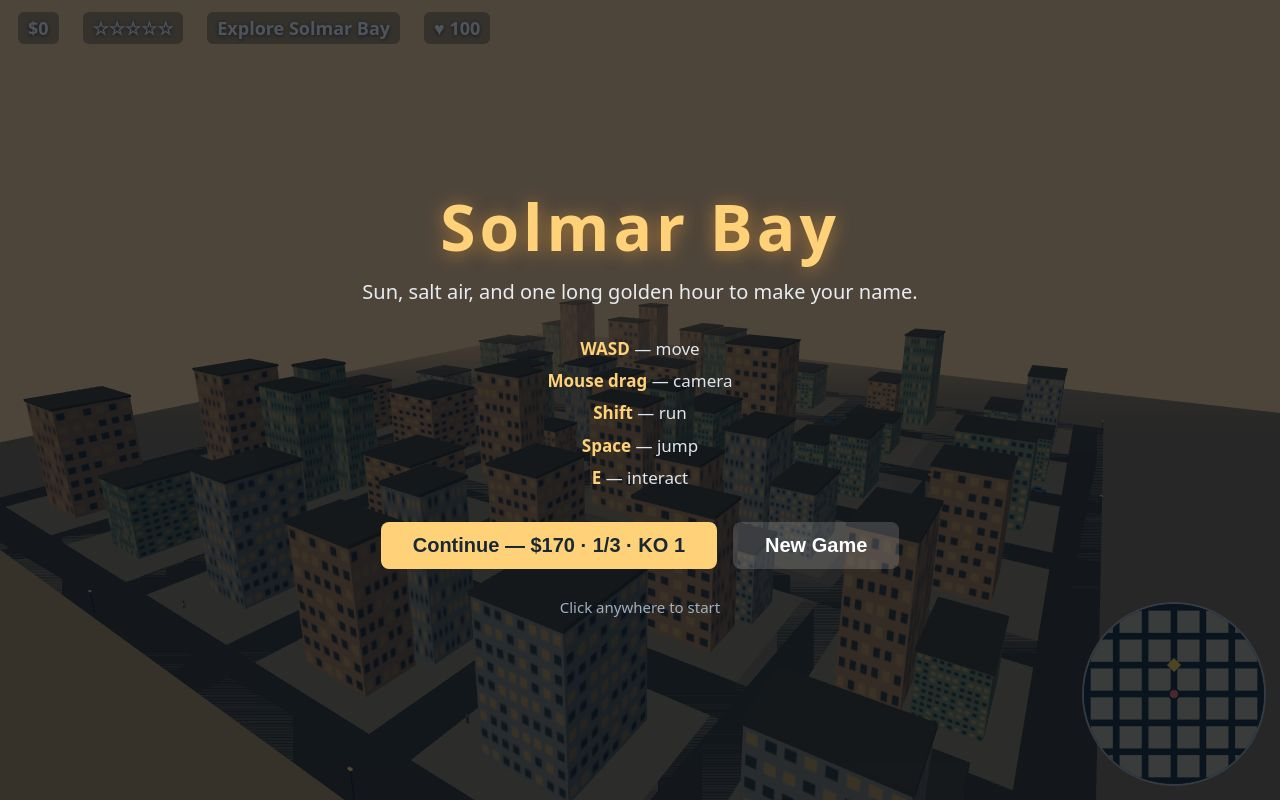
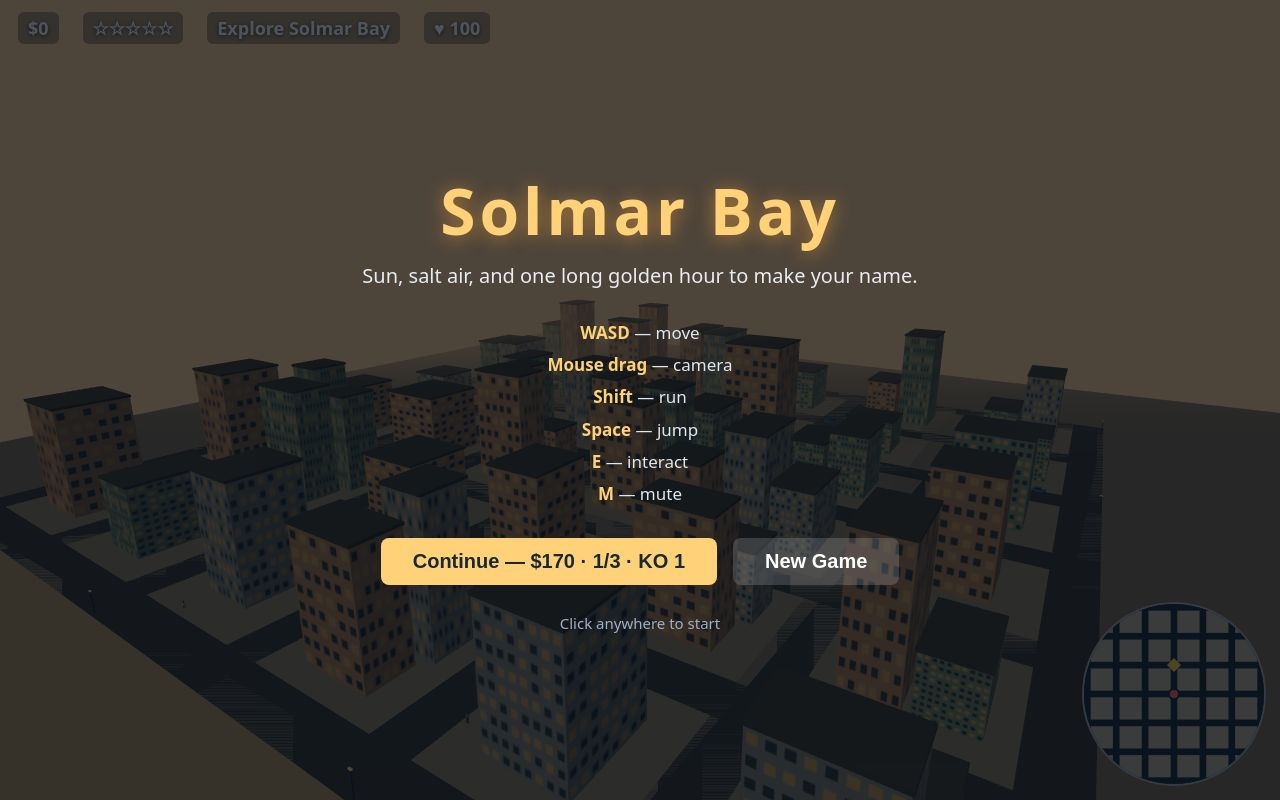
Slice 9: sound

Changed region(s): [[0.2812, 0.4062, 0.7188, 0.7812], [0.2812, 0.2188, 0.7188, 0.375]]

diff --git a/game/src/audio.js b/game/src/audio.js
@@ -1,0 +1,265 @@
+// Solmar Bay — procedural sound effects (slice 9).
+//
+//   const audio = createAudio();
+//   Returns { init, resume, play, setMuted, isMuted, isReady,
+//             getPlayCount, getPlayCounts, sounds }.
+//
+//   Wiring (done by the wiring session, NOT here):
+//     - init() / resume() — call once from a user gesture: the title
+//       screen click / Enter that starts the game (see main.js
+//       startFromTitle). The AudioContext is created ONLY here, never
+//       at module load, so the browser autoplay policy is satisfied
+//       and nothing sounds before the player starts. Calling init()
+//       twice is safe: the second call just resumes the same context.
+//     - play('punch') — combat tryPunch, on a punch that lands.
+//     - play('knockout') — combat onKnockout callback.
+//     - play('missionComplete') — missions onComplete callback.
+//     - play('failed') — death onDeath callback when kind is 'failed'
+//       (DELIVERY FAILED screen).
+//     - play('dead') — death onDeath callback when kind is 'dead'
+//       (OUT COLD screen).
+//     - setMuted(true/false) — the M key handler in main.js; this
+//       module never listens for keys itself.
+//     - getPlayCount(name) — how many times play(name) was requested;
+//       used by Playwright checks to verify each event really fires
+//       its sound. The count increments on every play() request for
+//       a known name, even while muted or with no audio device, so
+//       it proves the wiring fired — it is not a loudness meter.
+//
+//   All five sounds are synthesized live with WebAudio oscillators
+//   and filtered noise — zero audio files, zero network, no
+//   background music, no engine hum, no siren loop. Every sound is
+//   short (< ~1.1 s) and built from a different waveform / pitch
+//   envelope / duration so each is identifiable by ear:
+//     punch           square 160->70 Hz + low noise burst, 0.12 s
+//     knockout        double low thud, square+sine 220->40 Hz, 0.45 s
+//     missionComplete rising major triad, sine, 523->659->784 Hz, 0.6 s
+//     failed          two descending saw notes, 330->110 Hz, 0.9 s
+//     dead            long low sine drone, 110->55 Hz + thud, 1.1 s
+//
+//   Robustness: every public method is safe to call before init(),
+//   when the AudioContext is unavailable (headless, disabled audio),
+//   or when resume() is blocked by the autoplay policy — it degrades
+//   silently, never throws, and never touches the game loop. A
+//   missing or suspended context only means silence, never an error.
+
+export const AUDIO_SOUNDS = ['punch', 'knockout', 'missionComplete', 'failed', 'dead'];
+
+const MASTER_VOLUME = 0.5;
+
+export function createAudio() {
+  let ctx = null;        // AudioContext, created only by init()/resume()
+  let master = null;     // master GainNode (mute lives here)
+  let noiseBuf = null;   // cached 1 s white-noise buffer, built with ctx
+  let muted = false;
+  const counts = {};     // name -> play() requests, for test verification
+
+  function audioCtor() {
+    try {
+      const g = typeof globalThis !== 'undefined' ? globalThis : null;
+      if (!g) return null;
+      return g.AudioContext || g.webkitAudioContext || null;
+    } catch (err) {
+      return null;
+    }
+  }
+
+  // Create the context (user gesture only — the caller guarantees
+  // this runs from a click / Enter) and the master gain. Returns
+  // true when audio is usable, false when it is not (headless,
+  // disabled, or the browser refused). Never throws.
+  function init() {
+    if (ctx) {
+      resume();
+      return true;
+    }
+    try {
+      const Ctor = audioCtor();
+      if (!Ctor) return false;
+      ctx = new Ctor();
+      master = ctx.createGain();
+      master.gain.value = muted ? 0 : MASTER_VOLUME;
+      master.connect(ctx.destination);
+      const len = Math.max(1, Math.floor(ctx.sampleRate));
+      noiseBuf = ctx.createBuffer(1, len, ctx.sampleRate);
+      const data = noiseBuf.getChannelData(0);
+      for (let i = 0; i < data.length; i++) data[i] = Math.random() * 2 - 1;
+      resume();
+      return true;
+    } catch (err) {
+      ctx = null;
+      master = null;
+      noiseBuf = null;
+      return false;
+    }
+  }
+
+  // Resume a suspended context (autoplay policy). Safe before init()
+  // (creates the context, same as init) and safe when resume is
+  // refused — a rejected promise is swallowed, never thrown.
+  // Returns true when the context exists afterwards, false otherwise.
+  function resume() {
+    if (!ctx) return init();
+    try {
+      if (ctx.state === 'suspended' && typeof ctx.resume === 'function') {
+        const p = ctx.resume();
+        if (p && typeof p.catch === 'function') p.catch(() => {});
+      }
+      return true;
+    } catch (err) {
+      return false;
+    }
+  }
+
+  // One oscillator voice: type, pitch glide, gain envelope (quick
+  // attack, exponential decay to silence). t0 is ctx.currentTime.
+  function tone(t0, opts) {
+    const osc = ctx.createOscillator();
+    const gain = ctx.createGain();
+    osc.type = opts.type || 'sine';
+    osc.frequency.setValueAtTime(opts.freq, t0);
+    if (opts.freqEnd && opts.freqEnd !== opts.freq) {
+      osc.frequency.exponentialRampToValueAtTime(Math.max(1, opts.freqEnd), t0 + opts.dur);
+    }
+    const vol = typeof opts.vol === 'number' ? opts.vol : 0.5;
+    gain.gain.setValueAtTime(0.0001, t0);
+    gain.gain.exponentialRampToValueAtTime(vol, t0 + (opts.attack || 0.008));
+    gain.gain.exponentialRampToValueAtTime(0.0001, t0 + opts.dur);
+    osc.connect(gain);
+    gain.connect(master);
+    osc.start(t0);
+    osc.stop(t0 + opts.dur + 0.05);
+  }
+
+  // One filtered-noise burst: white noise through a lowpass whose
+  // cutoff glides down, with the same quick-attack/decay envelope.
+  function noise(t0, opts) {
+    const src = ctx.createBufferSource();
+    src.buffer = noiseBuf;
+    src.loop = true;
+    const filter = ctx.createBiquadFilter();
+    filter.type = 'lowpass';
+    filter.frequency.setValueAtTime(opts.filterFreq || 800, t0);
+    if (opts.filterEnd) {
+      filter.frequency.exponentialRampToValueAtTime(Math.max(20, opts.filterEnd), t0 + opts.dur);
+    }
+    const gain = ctx.createGain();
+    const vol = typeof opts.vol === 'number' ? opts.vol : 0.4;
+    gain.gain.setValueAtTime(0.0001, t0);
+    gain.gain.exponentialRampToValueAtTime(vol, t0 + (opts.attack || 0.005));
+    gain.gain.exponentialRampToValueAtTime(0.0001, t0 + opts.dur);
+    src.connect(filter);
+    filter.connect(gain);
+    gain.connect(master);
+    src.start(t0);
+    src.stop(t0 + opts.dur + 0.05);
+  }
+
+  // The five sounds. Each takes t0 = ctx.currentTime and schedules
+  // only short, one-shot voices — nothing loops, nothing sustains.
+  const SYNTH = {
+    // Short low thump: square wave dropping 160->70 Hz under a
+    // lowpass noise burst — a fist landing, 0.12 s.
+    punch(t0) {
+      tone(t0, { type: 'square', freq: 160, freqEnd: 70, dur: 0.1, vol: 0.45 });
+      noise(t0, { filterFreq: 900, filterEnd: 200, dur: 0.12, vol: 0.4 });
+    },
+    // Two heavy thuds a beat apart: square 220->50 Hz plus a sine
+    // 90->40 Hz boom underneath — a body hitting the ground, 0.45 s.
+    knockout(t0) {
+      tone(t0, { type: 'square', freq: 220, freqEnd: 50, dur: 0.18, vol: 0.5 });
+      tone(t0, { type: 'sine', freq: 90, freqEnd: 40, dur: 0.25, vol: 0.6 });
+      tone(t0 + 0.14, { type: 'square', freq: 140, freqEnd: 45, dur: 0.2, vol: 0.45 });
+      tone(t0 + 0.14, { type: 'sine', freq: 70, freqEnd: 38, dur: 0.28, vol: 0.55 });
+    },
+    // Rising major triad, clean sine: C5 523 -> E5 659 -> G5 784 Hz,
+    // three 0.18 s notes staggered 0.09 s — a delivery done, 0.6 s.
+    missionComplete(t0) {
+      const notes = [523.25, 659.25, 783.99];
+      notes.forEach((freq, i) => {
+        tone(t0 + i * 0.09, { type: 'sine', freq, dur: 0.22, vol: 0.45 });
+        tone(t0 + i * 0.09, { type: 'triangle', freq: freq * 2, dur: 0.15, vol: 0.12 });
+      });
+    },
+    // Two descending saw notes, 330 -> 220 -> 110 Hz through a
+    // lowpass — a run ending badly, 0.9 s.
+    failed(t0) {
+      tone(t0, { type: 'sawtooth', freq: 330, freqEnd: 220, dur: 0.4, vol: 0.3 });
+      tone(t0 + 0.38, { type: 'sawtooth', freq: 220, freqEnd: 110, dur: 0.5, vol: 0.3 });
+      tone(t0 + 0.38, { type: 'sine', freq: 110, freqEnd: 55, dur: 0.5, vol: 0.35 });
+    },
+    // One long low drone: sine 110 -> 55 Hz for a full second, with
+    // a soft low thud at the start — the screen going dark, 1.1 s.
+    // Lower and longer than 'failed', so the two never blur.
+    dead(t0) {
+      tone(t0, { type: 'sine', freq: 110, freqEnd: 55, dur: 1.05, vol: 0.5, attack: 0.02 });
+      tone(t0, { type: 'sine', freq: 55, freqEnd: 38, dur: 0.9, vol: 0.4, attack: 0.02 });
+      noise(t0, { filterFreq: 300, filterEnd: 80, dur: 0.35, vol: 0.25 });
+    },
+  };
+
+  // Play one named sound. Unknown names are ignored (false, no
+  // count, no throw). Muted, or no usable context, means silence —
+  // but the request is still counted, so the wiring can be verified
+  // in headless runs where nothing can actually sound. Never throws.
+  function play(name) {
+    if (typeof name !== 'string' || !SYNTH[name]) return false;
+    counts[name] = (counts[name] || 0) + 1;
+    if (muted || !ctx || !master) return false;
+    try {
+      if (ctx.state === 'suspended') resume();
+      SYNTH[name](ctx.currentTime);
+      return true;
+    } catch (err) {
+      return false;
+    }
+  }
+
+  // Mute switch. Muted play() calls stay counted no-ops; unmuting
+  // restores the master gain. Returns the new muted state.
+  function setMuted(m) {
+    muted = !!m;
+    try {
+      if (master) master.gain.value = muted ? 0 : MASTER_VOLUME;
+    } catch (err) {
+      // A dead context keeps the flag; sound stays off either way.
+    }
+    return muted;
+  }
+
+  function isMuted() { return muted; }
+
+  // True only when a context exists and is actually running —
+  // i.e. a play() right now could be heard (when not muted).
+  function isReady() {
+    try {
+      return !!ctx && ctx.state === 'running';
+    } catch (err) {
+      return false;
+    }
+  }
+
+  // Play-request counts, for Playwright / test verification.
+  function getPlayCount(name) {
+    if (typeof name !== 'string') return 0;
+    return counts[name] || 0;
+  }
+
+  function getPlayCounts() {
+    const out = {};
+    for (const n of AUDIO_SOUNDS) out[n] = counts[n] || 0;
+    return out;
+  }
+
+  return {
+    init,
+    resume,
+    play,
+    setMuted,
+    isMuted,
+    isReady,
+    getPlayCount,
+    getPlayCounts,
+    sounds: AUDIO_SOUNDS.slice(),
+  };
+}

diff --git a/game/src/main.js b/game/src/main.js
@@ -16,6 +16,7 @@ import { createInput } from './input.js';
 import { createPlayer, createPlayerMesh } from './player.js';
 import { createCamera } from './camera.js';
 import { createHUD } from './hud.js';
+import { createAudio } from './audio.js';
 import { setupShot } from './shots.js';
 
 const container = document.getElementById('game-container');
@@ -47,13 +48,18 @@ const { cars } = createCars(scene, city, rng);
 const traffic = createTraffic(scene, city, rng);
 const { peds, update: updatePeds } = createPedestrians(scene, city, rng);
 const police = createPolice(scene, city, rng);
+// Slice 9: procedural sound — AudioContext is created only by
+// audio.init() from a user gesture (see startFromTitle); before
+// that every play() is a counted silent no-op.
+const audio = createAudio();
 // Slice 5: Bayline courier missions — payout lands here, once per mission.
-const missions = createMissions(scene, city, { onComplete: (m) => { cash += m.reward; persistSave(); } });
+const missions = createMissions(scene, city, { onComplete: (m) => { cash += m.reward; persistSave(); audio.play('missionComplete'); } });
 // Slice 6: street melee — first punch on an opponent costs a wanted star
 // (via police), a knockout pays $20 into cash, once per opponent.
 const combat = createCombat(scene, city, rng, {
   addWanted: (n) => police.addWanted(n),
-  onKnockout: (r) => { cash += r.reward; persistSave(); },
+  onKnockout: (r) => { cash += r.reward; persistSave(); audio.play('knockout'); },
+  onPunch: () => audio.play('punch'),
 });
 
 const player = createPlayer(city.spawn, city.colliders, city.bounds);
@@ -92,6 +98,9 @@ const death = createDeath({
   resetOpponents: () => combat.resetOpponents(),
   resetMission: () => missions.resetCurrent(),
   getStats: () => ({ cash, knockouts: combat.getKnockouts(), completed: missions.getCompleted() }),
+  // Slice 9: death screen sound — 'failed' for DELIVERY FAILED,
+  // 'dead' for OUT COLD.
+  onDeath: (kind) => { audio.play(kind === 'dead' ? 'dead' : 'failed'); },
 });
 
 // Slice 2 driving state: on foot until E enters a nearby car.
@@ -112,6 +121,7 @@ const game = {
   missions,
   combat,
   death,
+  audio,
   get driving() { return driving; },
   get currentCar() { return currentCar; },
   hud,
@@ -136,6 +146,7 @@ function persistSave() {
 // roam when the save holds 3/3). A missing or damaged save just
 // starts a fresh run — load() returns null and nothing is applied.
 function continueGame() {
+  audio.init();
   const s = save.load();
   if (s) {
     cash = s.cash;
@@ -153,6 +164,7 @@ function continueGame() {
 }
 
 function newGame() {
+  audio.init();
   save.clearSave();
   setState('play');
 }
@@ -161,6 +173,7 @@ function newGame() {
 // buttons) continues a saved run when one exists, else starts fresh.
 function startFromTitle() {
   if (game.state !== 'title') return;
+  audio.init();
   if (save.hasSave()) continueGame();
   else newGame();
 }
@@ -172,7 +185,7 @@ hud.setObjective('Explore Solmar Bay');
 
 window.addEventListener('keydown', (e) => {
   if (e.code === 'Enter' && game.state === 'title') startFromTitle();
-  if (e.code === 'KeyM') { /* audio stub — sound arrives in a later slice */ }
+  if (e.code === 'KeyM') { audio.setMuted(!audio.isMuted()); }
 });
 titleEl.addEventListener('click', () => {
   if (game.state === 'title') startFromTitle();

diff --git a/game/src/combat.js b/game/src/combat.js
@@ -114,6 +114,8 @@ export function createCombat(scene, city, rng, options) {
   const spawn = (city && city.spawn) || { x: 0, z: 0 };
   const addWanted = options && typeof options.addWanted === 'function' ? options.addWanted : null;
   const onKnockout = options && typeof options.onKnockout === 'function' ? options.onKnockout : null;
+  // Slice 9: fired once per punch that lands (wired to audio.play('punch')).
+  const onPunch = options && typeof options.onPunch === 'function' ? options.onPunch : null;
 
   let health = PLAYER_MAX_HP;
   let knockouts = 0;
@@ -263,6 +265,7 @@ export function createCombat(scene, city, rng, options) {
     }
     if (!best) return;
     best.hp -= PUNCH_DAMAGE;
+    if (onPunch) onPunch(best);
     best.flashTimer = FLASH_TIME;
     best.swingTimer = 0; // the hit interrupts any swing of their own
     const kx = best.x - px, kz = best.z - pz;

diff --git a/game/index.html b/game/index.html
@@ -47,6 +47,7 @@
     <li><b>Shift</b> — run</li>
     <li><b>Space</b> — jump</li>
     <li><b>E</b> — interact</li>
+    <li><b>M</b> — mute</li>
   </ul>
   <div id="title-buttons">
     <button id="continue-btn" type="button" style="display:none">Continue</button>
